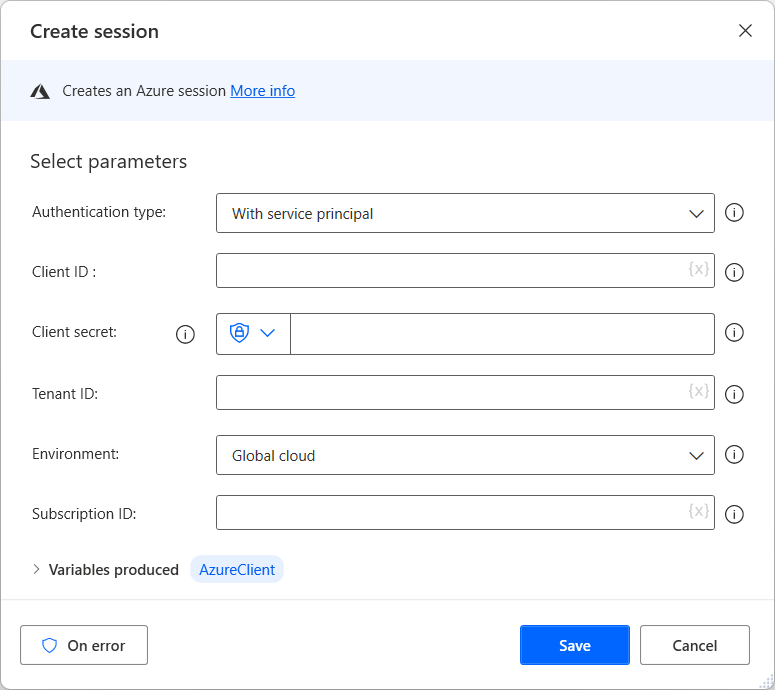
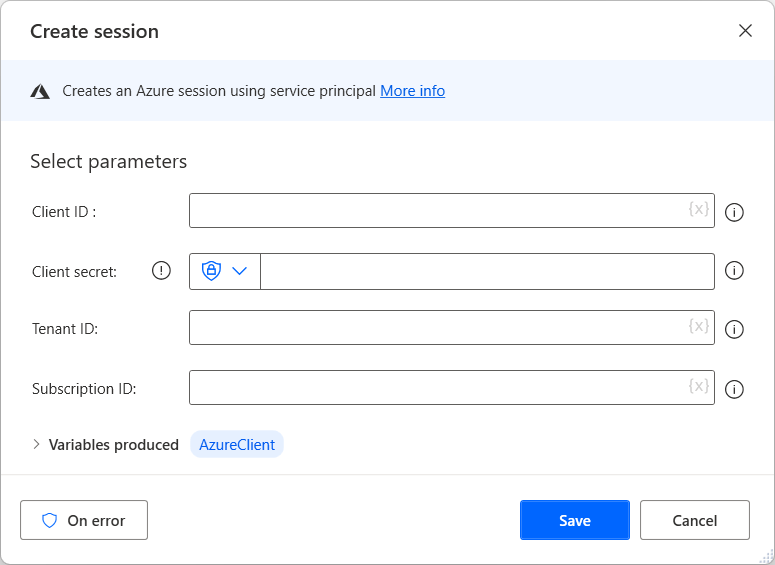
Removed file authentication from Azure session

diff --git a/articles/desktop-flows/actions-reference/azure.md b/articles/desktop-flows/actions-reference/azure.md
@@ -51,9 +51,7 @@ To implement Azure functionality in your desktop flows, create a new Azure sessi
 
 This action requires you to populate the **Client ID** that works as an authentication key for the specific application and the respective password. Additionally, populate the **Tenant ID** that is the Azure Active Directory in which you've created the application.
 
-Lastly, choose the environment you want to use for authentication and populate the **Subscription ID**. The subscription ID is a GUID that uniquely identifies your subscription to  Azure services.
-
-Apart from manual configuration, you can select **With file** in **Authentication type** and use a file containing all the required information.
+Lastly, populate the appropriate **Subscription ID**. The subscription ID is a GUID that uniquely identifies your subscription to  Azure services.
 
 ![Screenshot of the Create session action.](media/azure/create-session-action.png)
 
@@ -476,14 +474,10 @@ Creates an Azure session
 ##### Input Parameters
 |Argument|Optional|Accepts|Default Value|Description|
 |-----|-----|-----|-----|-----|
-|Authentication type|N/A|With service principal, With file|With service principal|Specify the way to authenticate|
 |Client ID |No|[Text value](../variable-data-types.md#text-value)||The client Id of the application, also known as application Id, which identifies the application that is using the token|
 |Client secret|No|Direct encrypted input or [Text value](../variable-data-types.md#text-value)||The secret for the client ID|
 |Tenant ID|No|[Text value](../variable-data-types.md#text-value)||The directory ID of the Azure Active Directory|
-|Environment|N/A|Global cloud, China cloud, US Government, German cloud|Global cloud|The environment to authenticate to|
-|Authentication file|No|[Text value](../variable-data-types.md#text-value)||The path of the file with all the required information to authenticate|
 |Subscription ID|Yes|[Text value](../variable-data-types.md#text-value)||The Azure subscription ID. If not provided, the default subscription will be used|
-
 
 ##### Variables Produced
 |Argument|Type|Description|
